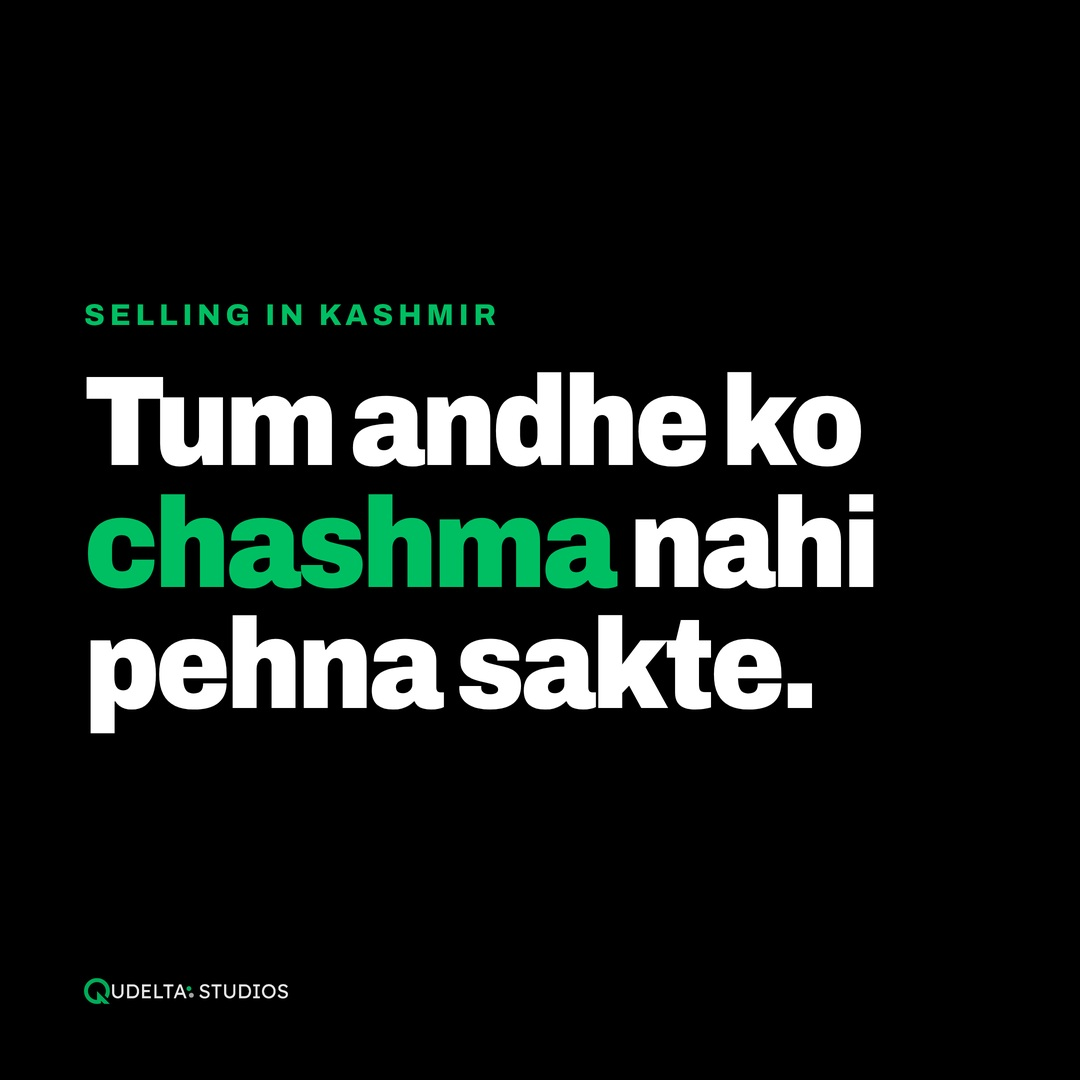
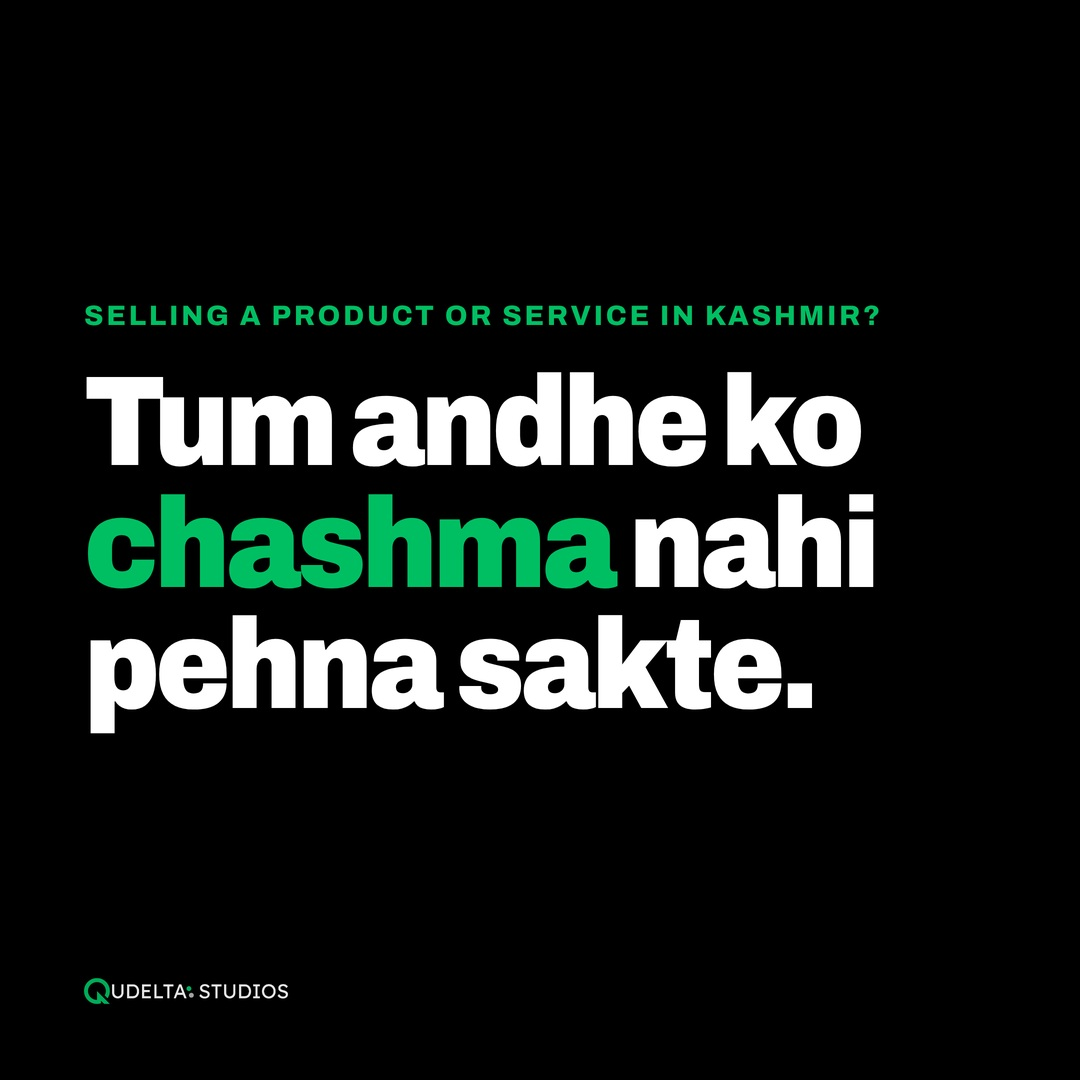
Selling-in-Kashmir post: label now 'Selling a product or service in Kashmir?'
Claude-Session: https://claude.ai/code/session_012ycmUoM6bvi6M51m5bkEgc

Changed region(s): [[0.0611, 0.275, 0.825, 0.3056]]

diff --git a/qudelta-brand/chashma/line.html b/qudelta-brand/chashma/line.html
@@ -8,7 +8,7 @@
   *{box-sizing:border-box;margin:0;padding:0}
   body{background:#000;font-family:'Archivo',sans-serif;-webkit-font-smoothing:antialiased;text-rendering:geometricPrecision}
   .post{position:relative;width:1080px;height:1080px;background:#000;color:#fff;overflow:hidden}
-  .k{position:absolute;left:84px;top:300px;font-size:30px;font-weight:800;letter-spacing:.16em;text-transform:uppercase;color:#00BF63}
+  .k{position:absolute;left:84px;right:84px;top:300px;font-size:28px;font-weight:800;letter-spacing:.1em;white-space:nowrap;text-transform:uppercase;color:#00BF63}
   h1{position:absolute;left:84px;right:84px;top:362px;font-weight:900;font-stretch:87.5%;font-size:128px;line-height:.95;letter-spacing:-.035em}
   h1 span{color:#00BF63}
   .logo{position:absolute;left:84px;bottom:76px;height:26px;opacity:.9}
@@ -16,7 +16,7 @@
 </head>
 <body>
 <section class="post">
-  <div class="k">Selling in Kashmir</div>
+  <div class="k">Selling a product or service in Kashmir?</div>
   <h1>Tum andhe ko <span>chashma</span> nahi pehna sakte.</h1>
   <img class="logo" src="assets/qudelta-logo-light.png" alt="Qudelta Studios">
 </section>
